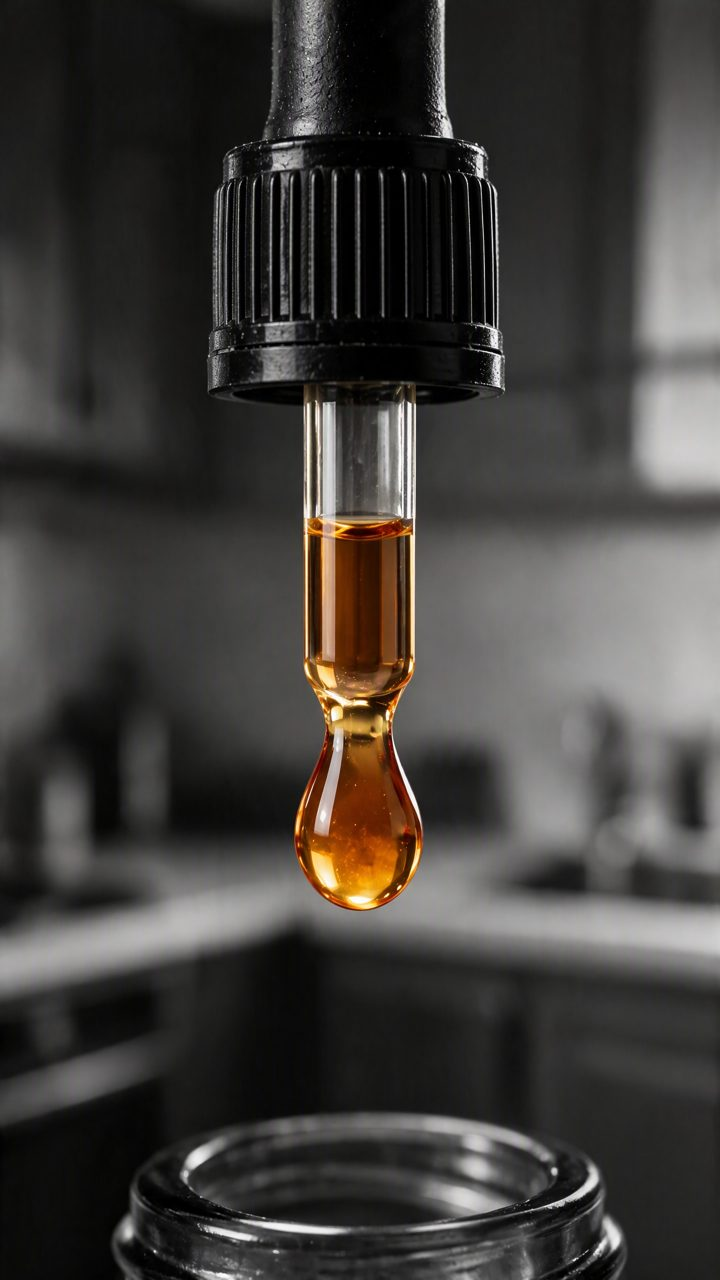
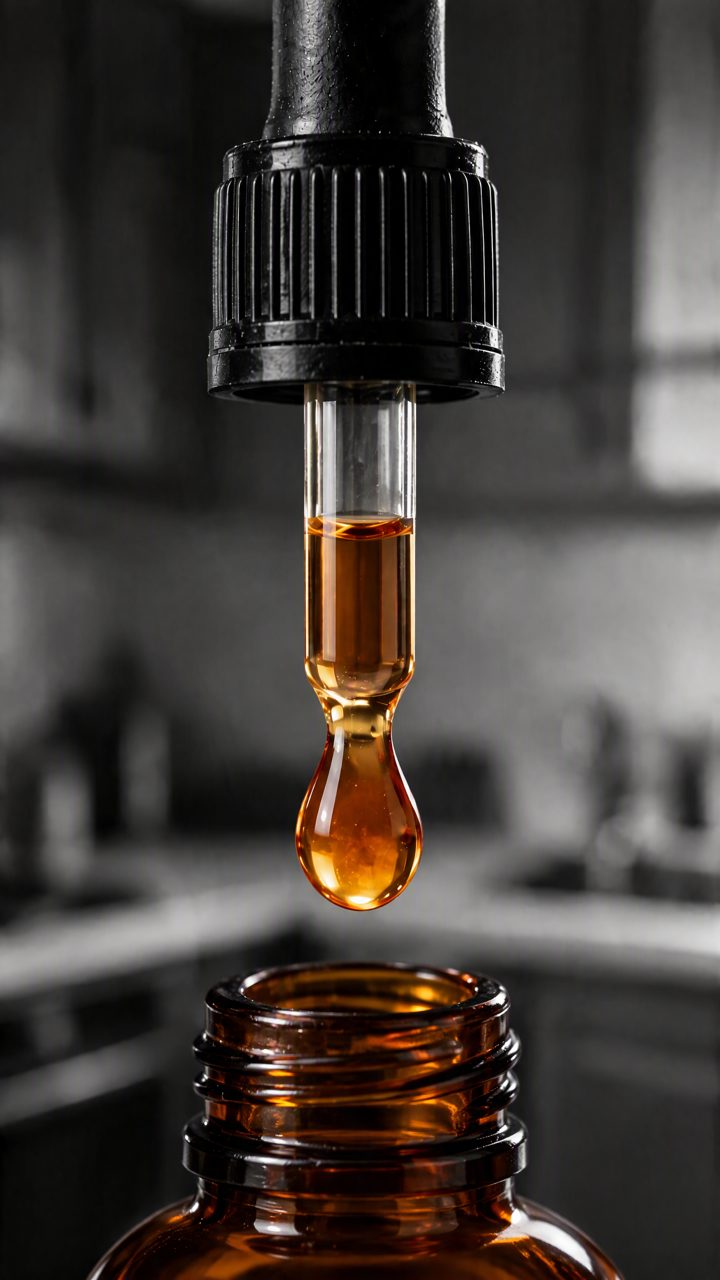
TTF brief v1: frame 03 now draws the pipette out of the bottle with the extra drop falling back in; the 30% check under the drop on the idea image, in the drop's amber

diff --git a/ttf/v1/index.html b/ttf/v1/index.html
@@ -57,6 +57,9 @@ section:first-of-type{border-top:0}
 .why .grid{display:grid;grid-template-columns:1fr 1.1fr;gap:clamp(28px,5vw,72px);align-items:center}
 .why .ph{aspect-ratio:9/16;border-radius:20px;overflow:hidden;background:var(--panel);max-width:400px;justify-self:start}
 .why .ph img{width:100%;height:100%;object-fit:cover}
+.why .ph{position:relative}
+.why .ovl{position:absolute;inset:70% 16px auto 16px;text-align:center;color:#fff;font-weight:700;font-size:clamp(17px,2vw,25px);line-height:1.3;text-shadow:0 1px 8px rgba(0,0,0,.85)}
+.why .ovl .am{color:#e8a53a}
 .why blockquote{font-size:clamp(28px,3.4vw,44px);font-weight:600;line-height:1.18;max-width:20ch;text-wrap:balance}
 .why blockquote span{color:var(--gold)}
 .why .txt{margin-top:22px;display:grid;gap:14px}
@@ -177,7 +180,7 @@ section:first-of-type{border-top:0}
           <span data-n="05">"נבדק לפני שנכנס." <em>· הבקבוק שלכם ביד</em></span>
         </div>
       </div>
-      <div class="ph"><img src="img/f04.jpg" alt="טיפת ענבר קפואה באוויר, וקו סריקה עובר דרכה"></div>
+      <div class="ph"><img src="img/f04.jpg" alt="טיפת ענבר קפואה באוויר, וקו סריקה עובר דרכה"><div class="ovl" aria-hidden="true">בטא־גלוקנים <b class="am">30% ✓</b><br>נבדק במעבדה חיצונית</div></div>
     </div>
   </div>
 </section>
@@ -192,7 +195,7 @@ section:first-of-type{border-top:0}
     <div class="list">
       <div class="step"><div class="ph"><img src="img/f01.jpg" alt="קפה במקרר" loading="lazy"></div><div><div class="meta"><span class="n">01</span><span class="t">0.0–1.8</span></div><h3>הקפה במקרר</h3><p class="do">06:30. היא מכניסה ספל קפה למקרר, ליד החלב. הכל אפור.</p><div class="say"><span><b>על המסך</b>06:30. הקפה במקרר. שוב.</span></div></div></div>
       <div class="step"><div class="ph"><img src="img/f02.jpg" alt="היד חוטפת את הבקבוק" loading="lazy"></div><div><div class="meta"><span class="n">02</span><span class="t">1.8–2.6</span></div><h3>הבקבוק שלכם</h3><p class="do">היד חוטפת את בקבוק הקורדיספס מהשיש. הוא הדבר היחיד בצבע.</p></div></div>
-      <div class="step"><div class="ph"><img src="img/f03.jpg" alt="טיפה בקצה הפיפטה" loading="lazy"></div><div><div class="meta"><span class="n">03</span><span class="t">2.6–3.3</span></div><h3>טיפה אחת</h3><p class="do">מאקרו: טיפת תמצית ענבר מתנפחת בקצה הפיפטה. כל הסאונד נחתך.</p></div></div>
+      <div class="step"><div class="ph"><img src="img/f03.jpg" alt="טיפה בקצה הפיפטה" loading="lazy"></div><div><div class="meta"><span class="n">03</span><span class="t">2.6–3.3</span></div><h3>טיפה אחת</h3><p class="do">פיפטת הזכוכית עולה מתוך הבקבוק, מלאה בתמצית, וטיפה עודפת נופלת בחזרה לתוכו. כל הסאונד נחתך.</p></div></div>
       <div class="step key"><div class="ph"><img src="img/f04.jpg" alt="הטיפה קפואה ונסרקת" loading="lazy"></div><div><div class="meta"><span class="n">04</span><span class="t">3.3–5.5</span></div><h3>הבדיקה</h3><p class="do">הטיפה קופאת באוויר. קו סריקה עובר עליה, והמספר ננעל עם ✓.</p><div class="say"><span><b>על המסך</b>בטא־גלוקנים 30% ✓</span><span><b>על המסך</b>נבדק במעבדה חיצונית</span></div></div></div>
       <div class="step"><div class="ph"><img src="img/f05.jpg" alt="הטיפה נופלת לפה" loading="lazy"></div><div><div class="meta"><span class="n">05</span><span class="t">5.5–6.5</span></div><h3>הטיפה נכנסת</h3><p class="do">היא מטפטפת לפה. עיניים עצומות.</p></div></div>
       <div class="step key"><div class="ph"><video src="media/inner_chamber.mp4" poster="img/inner_chamber_poster.jpg" playsinline autoplay muted loop preload="metadata" aria-label="טיפות נמסות לאור זהוב"></video></div><div><div class="meta"><span class="n">06</span><span class="t">6.5–9.1</span></div><h3>המסע בתוך הגוף</h3><p class="do">הטיפות נוחתות בעולם רך ונמסות לאור זהוב שזורם הלאה.</p></div></div>
